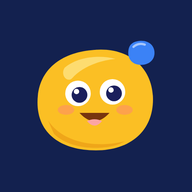
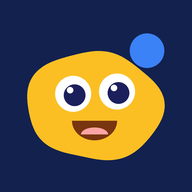
Icono: vuelve la forma de piedra anterior, ahora en amarillo
Claude-Session: https://claude.ai/code/session_01N2aDUPay5oTwnhCtisLKbb

Changed region(s): [[0.125, 0.1562, 0.875, 0.8438]]

diff --git a/sw.js b/sw.js
@@ -1,6 +1,6 @@
 // Calculi: funciona sin conexión. Red primero (así los cambios llegan solos) y copia guardada si no hay red.
 // Prefijo propio «calc-pwa-»: comparte dominio con Lectori y Barri y solo borra sus propias cachés.
-const V="calc-pwa-4",CORE=["./","index.html","manifest.webmanifest","icon-192.png","icon-512.png","fonts/fredoka.woff","fonts/fredoka-ext.woff","fonts/inter-400.woff","fonts/inter-500.woff","fonts/inter-600.woff"];
+const V="calc-pwa-5",CORE=["./","index.html","manifest.webmanifest","icon-192.png","icon-512.png","fonts/fredoka.woff","fonts/fredoka-ext.woff","fonts/inter-400.woff","fonts/inter-500.woff","fonts/inter-600.woff"];
 self.addEventListener("install",e=>{e.waitUntil(caches.open(V).then(c=>Promise.all(CORE.map(u=>c.add(u).catch(()=>{})))).then(()=>self.skipWaiting()))});
 self.addEventListener("activate",e=>{e.waitUntil(caches.keys().then(k=>Promise.all(k.filter(x=>x.startsWith("calc-pwa-")&&x!==V).map(x=>caches.delete(x)))).then(()=>self.clients.claim()))});
 self.addEventListener("fetch",e=>{const r=e.request;if(r.method!=="GET")return;const u=new URL(r.url);if(u.origin!==location.origin)return;
